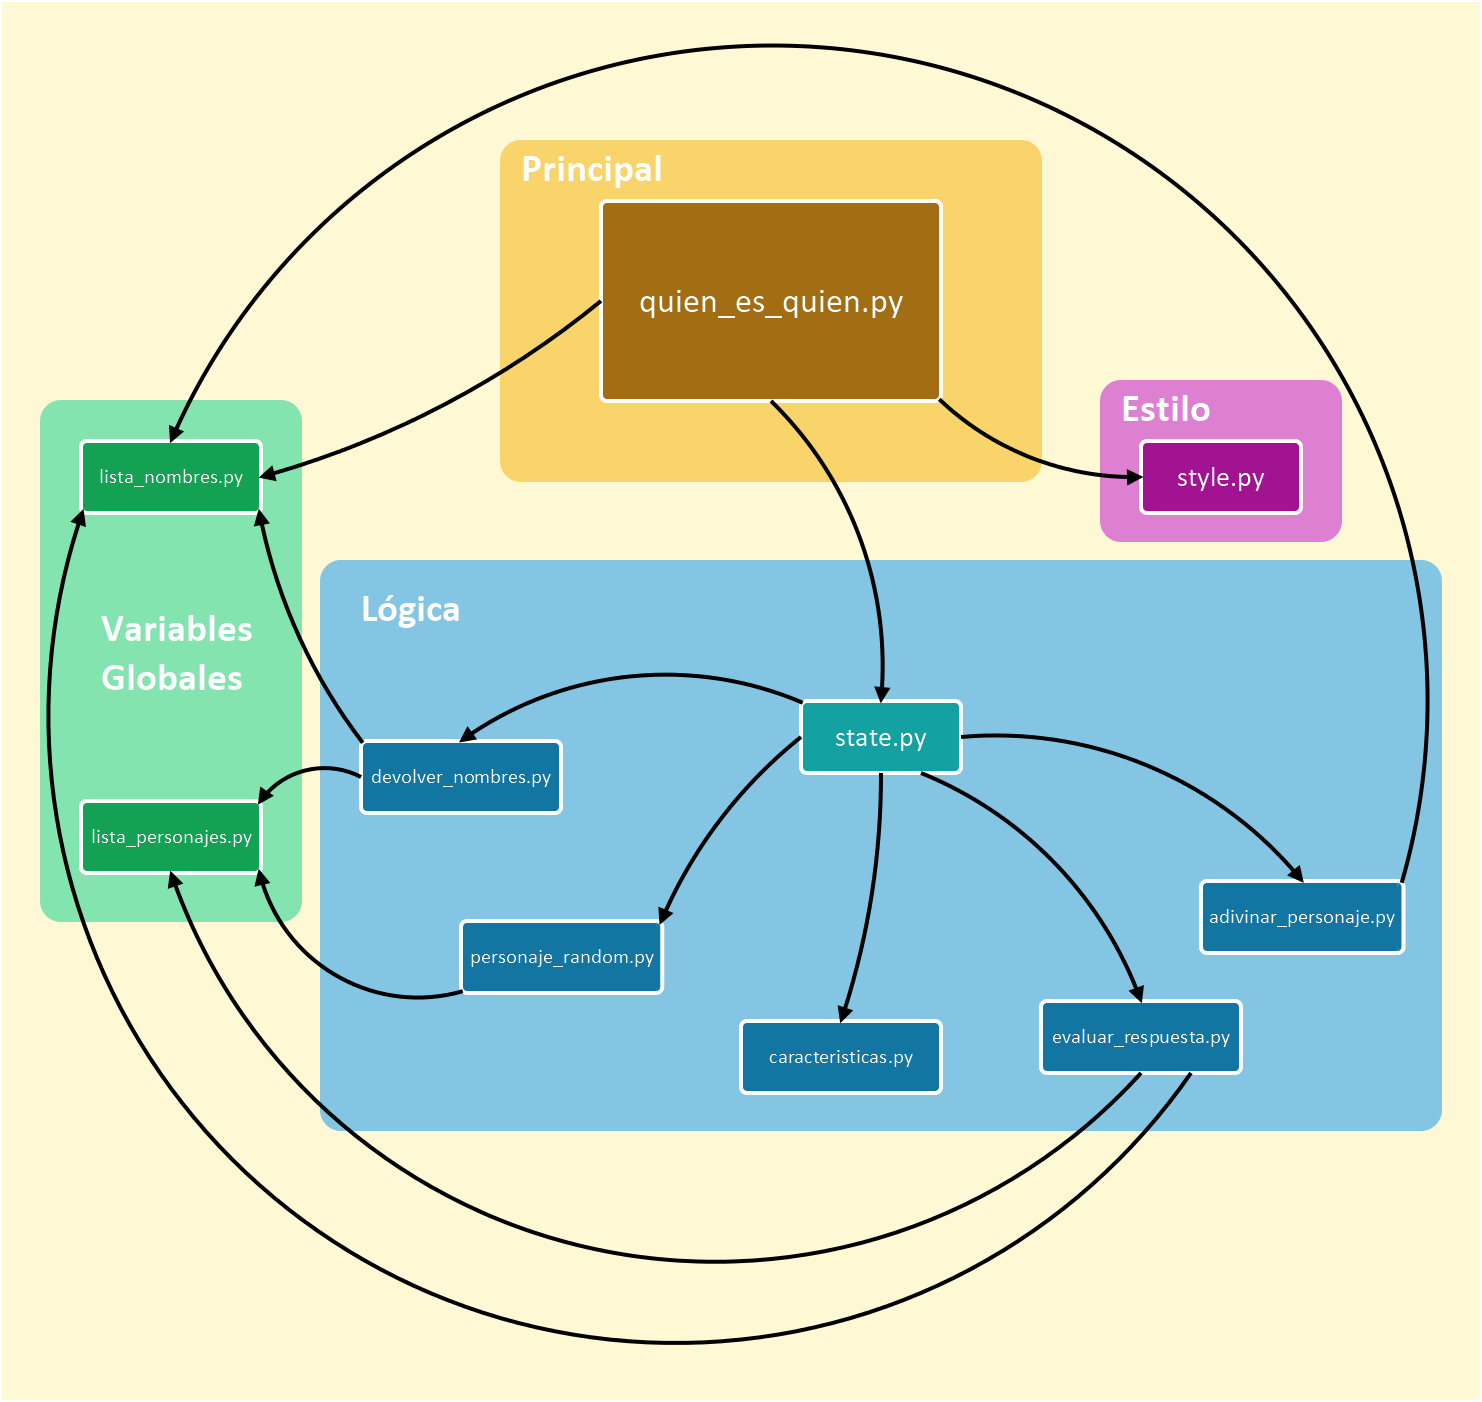
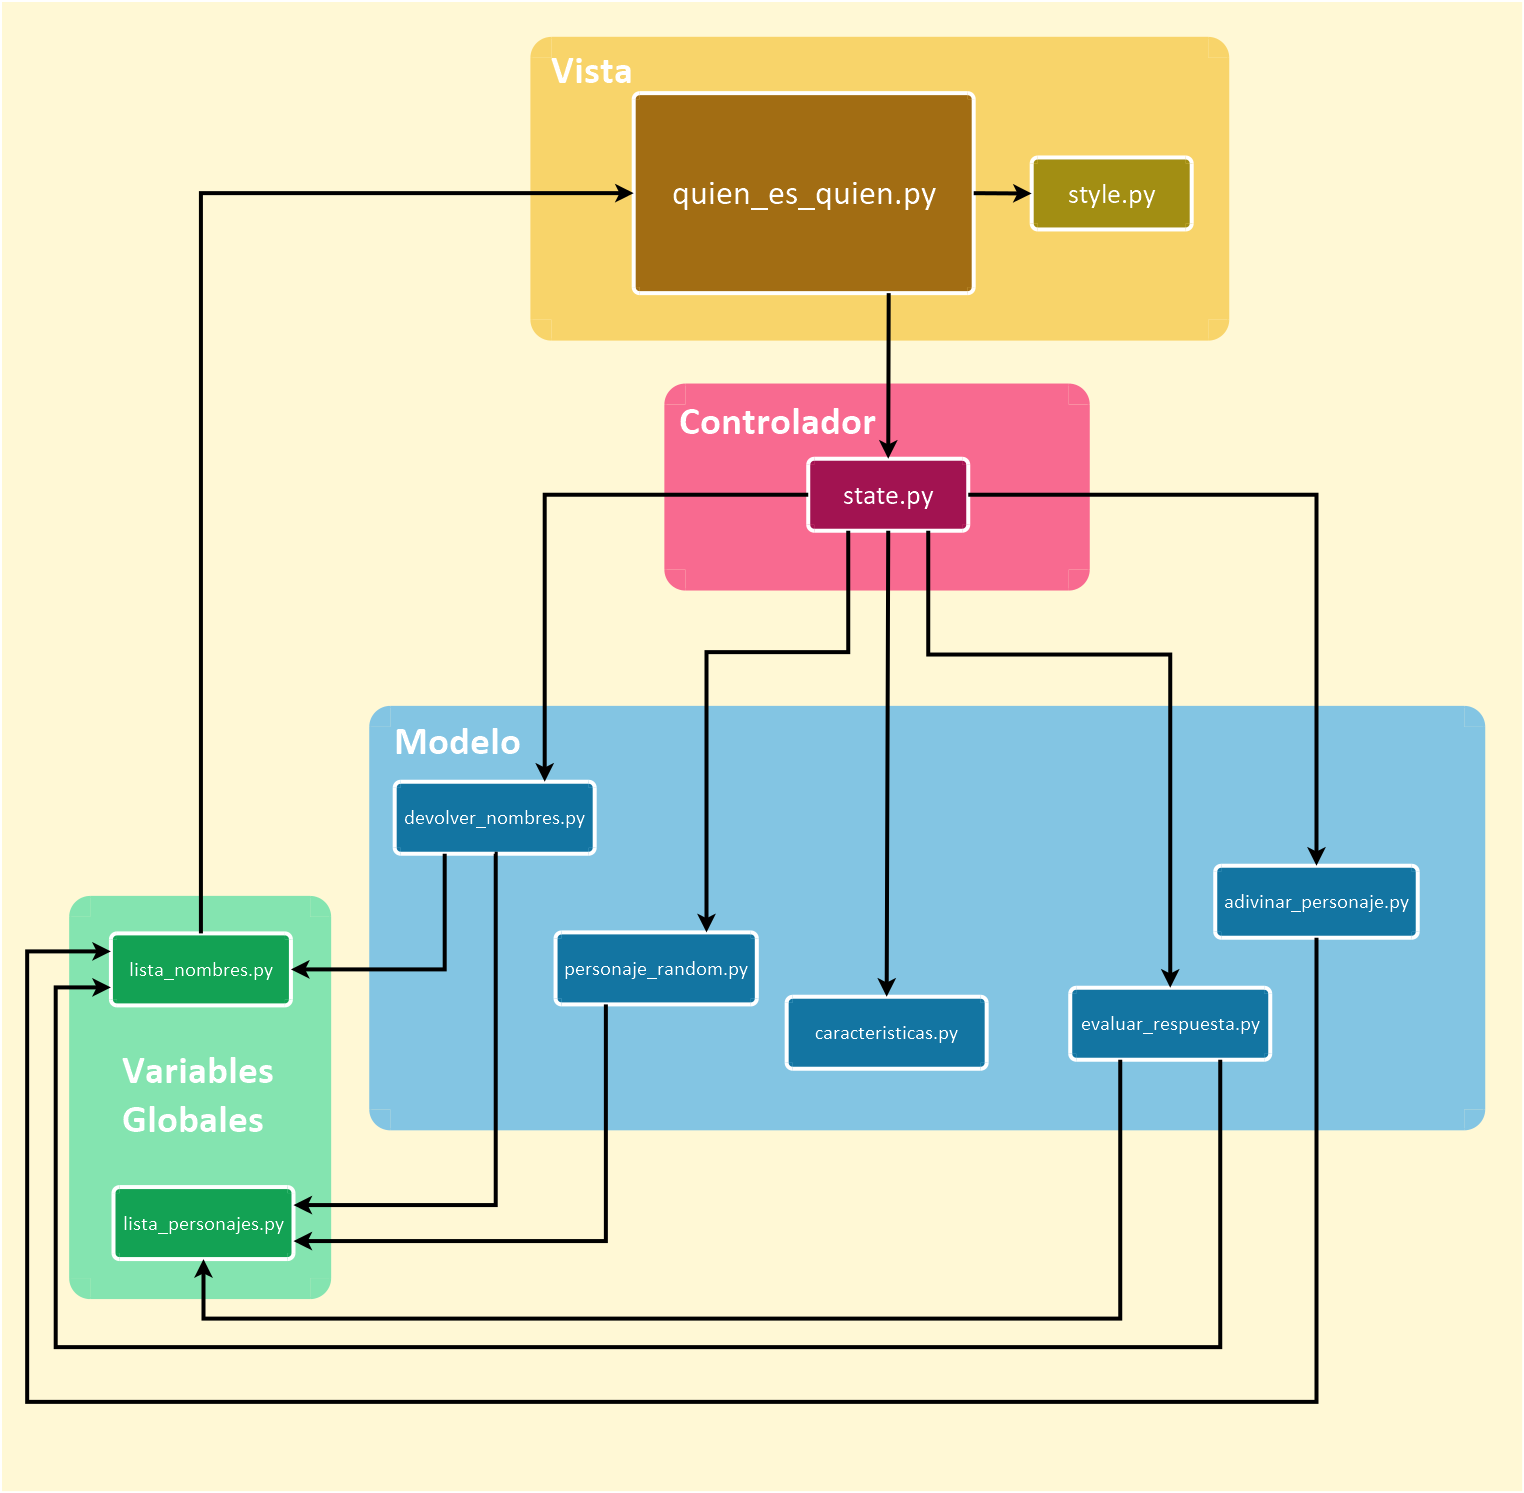
docs(README): Actualizar documentación.
Actualizada la documentación en base a los cambios sugeridos por el profesor (diferenciación modelo, vista, controlador en diagrama de dependencias y mejor diferenciación por sectores en diagrama de tiempo).

diff --git a/README.md b/README.md
@@ -421,7 +421,7 @@ def test_personaje_random(expected):
 
 Según el log de **Wakatime**, el tiempo invertido en este proyecto es:
 
-Rubi
+***Rubi***
 ---
 
 ![tiempo global](/images/wakatime_global.png)
@@ -441,9 +441,12 @@ Rubi
 ![Captura 29 Noviembre](/images/wakatime_11D.png)
 *Captura del 11 de Diciembre.*
 
+**Tiempo en tokens dedicado a cada apartado del proyecto:**
+---
+![Diagrama tiempo](/images/diagrama_tiempo.png)
 ---
 
-Maria
+***Maria***
 ---
 
 Al no tener el wakatime configurado, según los cálculos salen los siguientes tokens:
